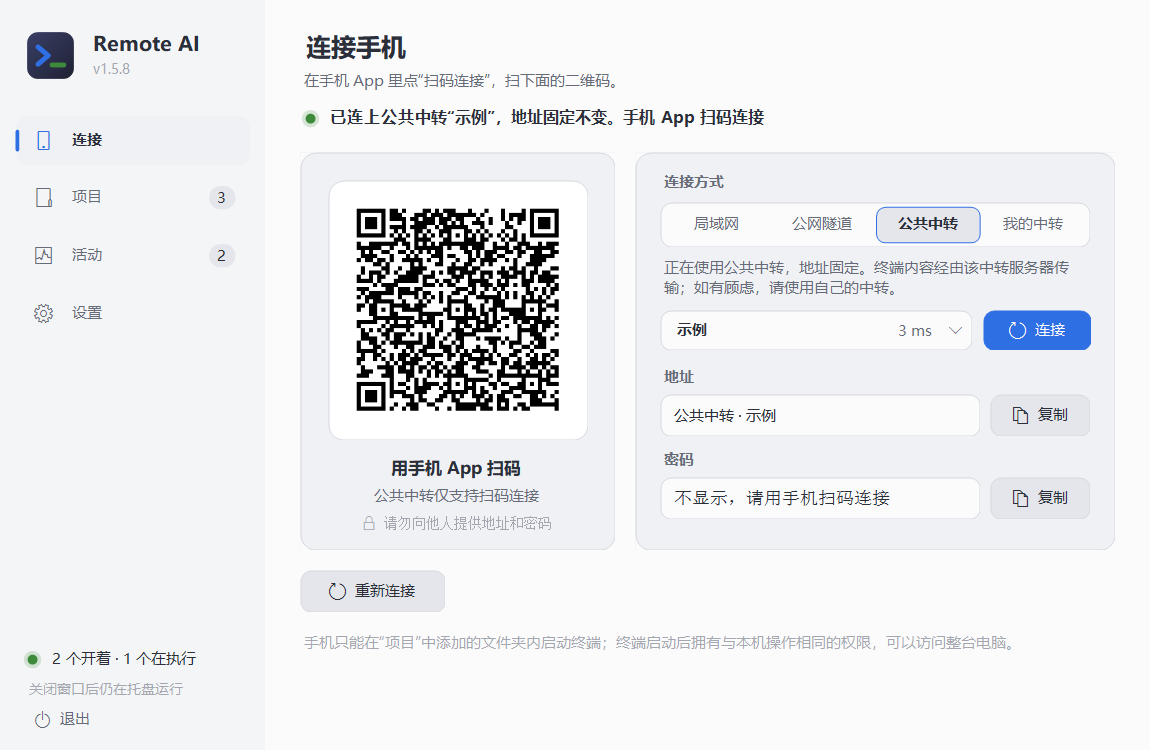
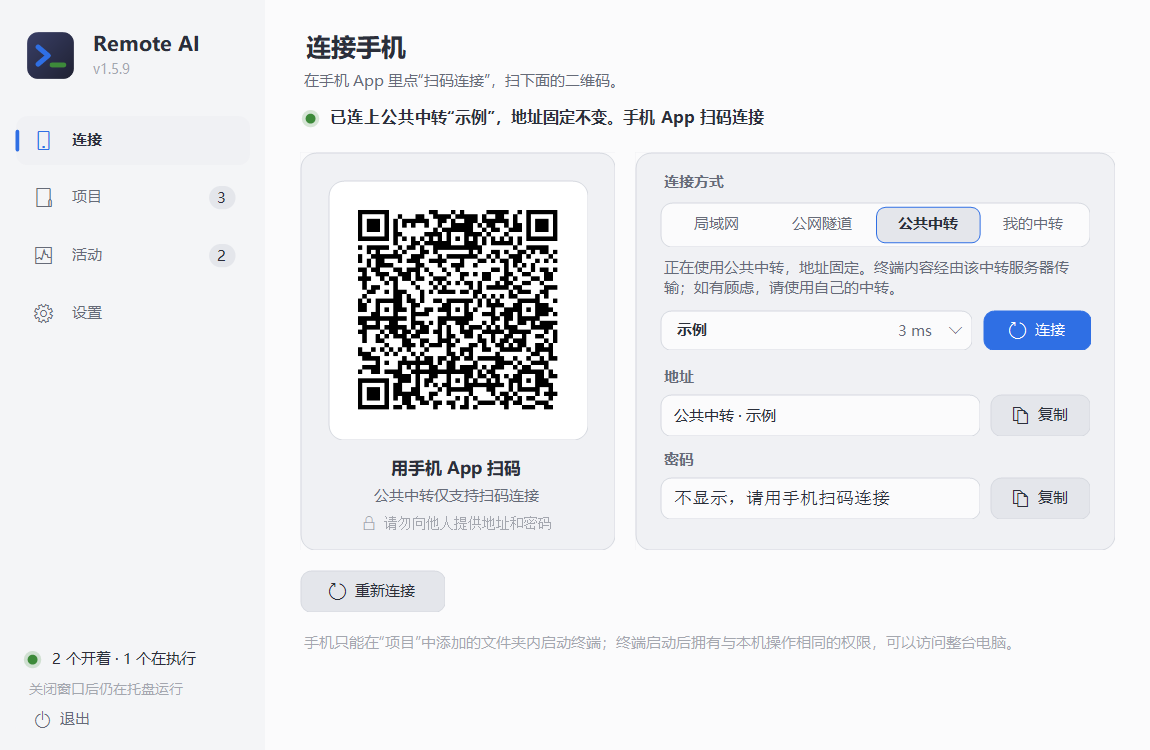
chore(release): 1.5.9; the pictures of the window drawn anew

Changed region(s): [[0.3043, 0.276, 0.487, 0.552]]

diff --git a/agent-windows/Setup.cs b/agent-windows/Setup.cs
@@ -15,7 +15,7 @@ namespace RemoteCli {
 ///   --quiet            no questions and no start afterwards
 ///   --dir <folder>     where to install (default: the folder of an earlier installation, else %LOCALAPPDATA%\Programs\RemoteCli)
 public static class Setup {
-    const string Version = "1.5.8", Name = "Remote AI";
+    const string Version = "1.5.9", Name = "Remote AI";
     // The names it had before. Their shortcuts are taken away when this one is installed or removed; the folder, the
     // registry keys and the files keep their names, so that an installation is found and replaced whatever it was called.
     static readonly string[] EarlierNames = { "Remote CLI" };

diff --git a/agent-windows/RemoteCliApp.cs b/agent-windows/RemoteCliApp.cs
@@ -22,7 +22,7 @@ namespace RemoteCli {
 /// The program on the computer: a small window and a tray icon around the relay, the optional tunnel and the
 /// terminal agent. Everything it starts ends when it exits.
 public sealed partial class App : Form {
-    const string Version = "1.5.8";
+    const string Version = "1.5.9";
     const string TunnelDownload = "https://github.com/cloudflare/cloudflared/releases/latest/download/cloudflared-windows-amd64.exe";
     readonly string appDir = AppDomain.CurrentDomain.BaseDirectory.TrimEnd('\\');
     readonly string dataDir = TerminalAgent.DefaultData;

diff --git a/tools/package_windows.py b/tools/package_windows.py
@@ -13,7 +13,7 @@ import zipfile
 from pathlib import Path
 
 ROOT = Path(__file__).resolve().parents[1]
-VERSION = "1.5.8"
+VERSION = "1.5.9"
[1 lines of base64/hex data omitted]
 # Parts of the embeddable Python the relay never loads.
 UNUSED = ("_msi.pyd", "_sqlite3.pyd", "sqlite3.dll", "_elementtree.pyd", "pyexpat.pyd", "_wmi.pyd", "_zoneinfo.pyd", "winsound.pyd",

diff --git a/relay/server.py b/relay/server.py
@@ -27,7 +27,7 @@ sys.path.insert(0, os.path.dirname(os.path.abspath(__file__)))   # an embedded P
 import relay  # noqa: E402
 import websocket  # noqa: E402
 
-VERSION = "1.5.8"
+VERSION = "1.5.9"
 SESSION_DAYS = 90
 LOGIN_TRIES, LOGIN_LOCK, LOGIN_TRIES_ALL = 6, 900, 40
 BODY_LIMIT = 4 * 1024 * 1024
